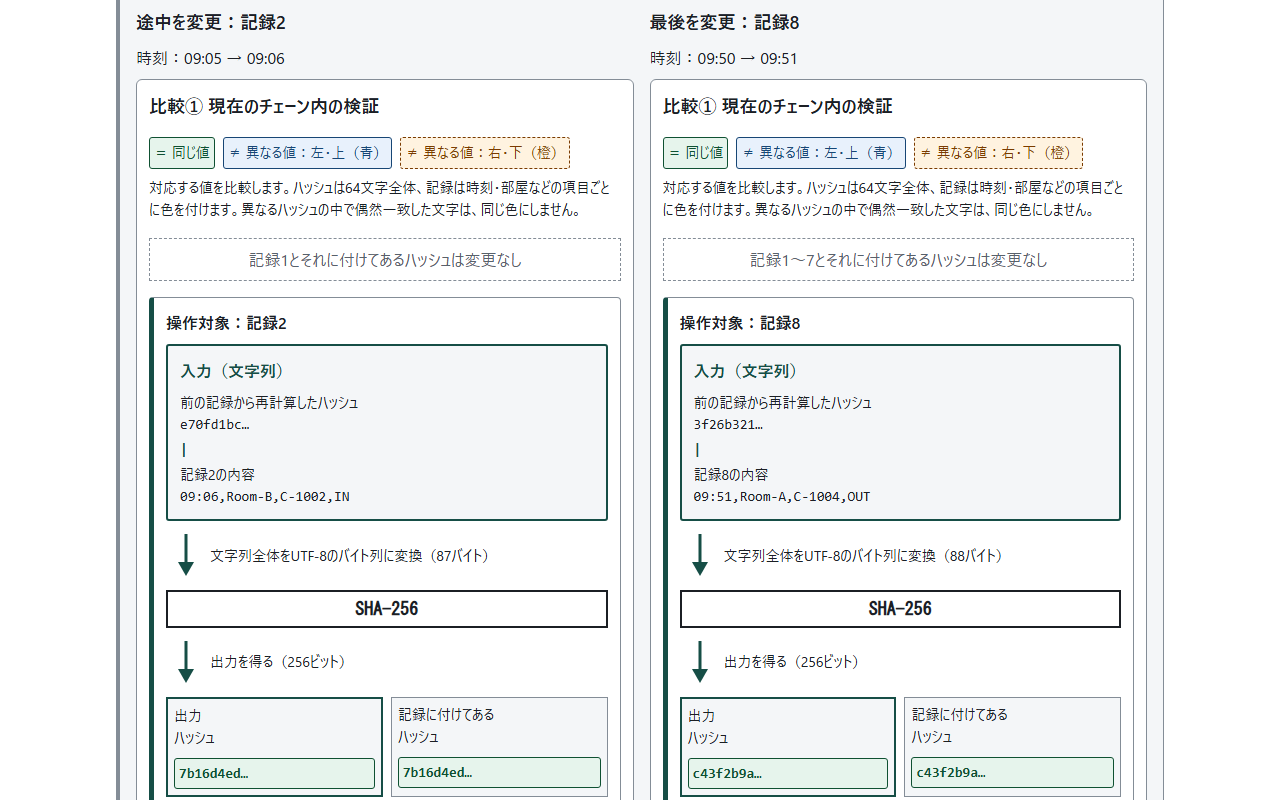
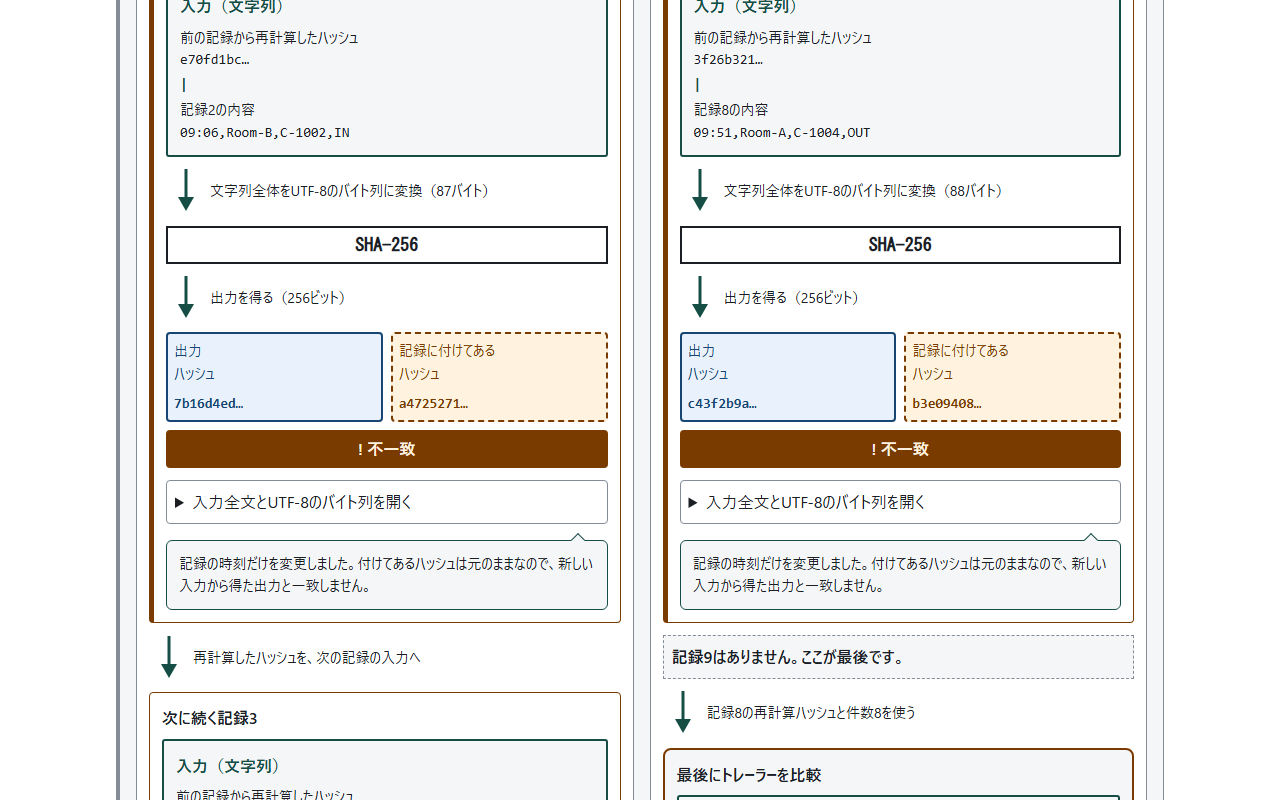
図内の不一致をハッシュ欄全体と判定帯で強調

Changed region(s): [[0.0938, 0.0, 0.875, 1.0]]

diff --git a/app.js b/app.js
@@ -602,6 +602,7 @@
 
   function positionPair(leftLabel, leftHash, rightLabel, rightHash, valid, outputFirst = false) {
     const pair = node('div', undefined, 'position-pair');
+    pair.dataset.valid = String(valid);
     const values = [['stored', leftLabel, leftHash], ['recomputed', rightLabel, rightHash]];
     if (outputFirst) values.reverse();
     for (const [key, label, hash] of values) {
@@ -610,7 +611,10 @@
       code.title = hash;
       code.dataset.hash = hash;
       cell.dataset.side = key;
-      comparisonTone(code, hash, key === 'stored' ? rightHash : leftHash, pair.childElementCount === 0 ? 'first' : 'second');
+      const peer = key === 'stored' ? rightHash : leftHash;
+      const side = pair.childElementCount === 0 ? 'first' : 'second';
+      comparisonTone(cell, hash, peer, side);
+      comparisonTone(code, hash, peer, side);
       cell.append(node('span', label), code);
       pair.append(cell);
     }
@@ -640,6 +644,7 @@
     const bytes = new TextEncoder().encode(input);
     card.dataset.input = input;
     card.dataset.bytes = String(bytes.length);
+    card.dataset.valid = String(valid);
     card.append(positionArrow(t('diagram.utf8', {n:bytes.length})),
       node('div', 'SHA-256', 'diagram-function'), positionArrow(t('diagram.outputArrow')),
       positionPair(t(trailer ? 'position.originalTrailer' : 'diagram.stored'), stored,

diff --git a/style.css b/style.css
@@ -614,3 +614,10 @@ code.compare-value, .comparison-color-keys .compare-value { padding: 0.25rem; bo
 .position-disclosure-indicator { display: inline-block; width: 1.25em; }
 .position-inline-panel { margin-block-start: 1rem; padding-block-start: 0.75rem; border-block-start: 1px solid var(--border); }
 .position-inline-panel .position-case { margin-block: 0; }
+
+/* Color each complete comparison cell and make a failed verdict unmistakable. */
+.position-pair .position-value.compare-value { padding: 0.375rem; border-width: 2px; border-radius: 4px; }
+.position-pair .position-value code.compare-value { color: inherit; background: transparent; border: 0; padding: 0; }
+.position-verdict.bad { color: var(--warn-bg); background: var(--warn-fg); border: 2px solid var(--warn-fg); font-weight: 700; }
+.position-record[data-valid="false"], .position-trailer[data-valid="false"] { border-color: var(--warn-fg); }
+.position-record[data-valid="true"], .position-trailer[data-valid="true"] { border-color: var(--ok-fg); }

diff --git a/CLAUDE.md b/CLAUDE.md
@@ -101,3 +101,5 @@ Step1の前提知識に、記録・計算用入力文字列・出力のハッシ
 比較表示は完全な値の一致から色を決めます。同じ値は緑、異なる値は左・上が青、右・下が橙です。ハッシュは64文字を1単位とし、偶然一致した文字の部分強調はしません。入力文字列では前のハッシュと記録の各項目を分け、区切り記号は色の判定から除きます。色の凡例と一致・不一致の文字を併記し、明暗・日英・狭い画面に対応します。暗号計算と固定期待値は維持します。
 
 Step2・3の仕組みの解説にある比較ボタンは、直下で比較図を開閉します。chooseGuide・focus・スクロール操作を呼び出さず、表示中の段と実験結果を保ちます。開閉・段階・トレーラーの選択は段別のメモリー状態とし、Step3の実行結果内の比較と分離します。図の描画関数と計算済みの比較データを共有し、詳細のIDは表示箇所ごとに分けます。開閉前後のスクロール位置・ボタン位置・フォーカス、言語切替、独立したリセットをHTTP/fileと公開URLで検証します。
+
+途中と最後の図の内部比較では、ハッシュの数値だけでなく、ラベルを含む2つの枠全体を一致時は緑、不一致時は青・橙にします。不一致の判定帯は警告の前景色と背景色を反転して強調し、対象記録・トレーラーの外枠にも判定色を付けます。色は各図内の出力と付けてあるハッシュを比較するもので、左右の記録2と記録8を比べるものではありません。64文字全体での判定、各図の実計算、開閉時の読書位置は維持します。

diff --git a/README.en.md b/README.en.md
@@ -83,6 +83,8 @@ Diagrams show the status of all 8 rows, tail deletion, and the people who hold k
 
 Step 3 embeds the Middle vs last input/output diagrams in What just happened. Arrows connect each input string, UTF-8 encoding, SHA-256 and output. The output and stored hash appear side by side, with callouts explaining each match or mismatch. Arrows also show the output feeding the next record or trailer input. Expand the full input and every byte in place. Two original copies let you replay 0 original, 1 change only the contents, and 2 also update that record’s stored hash. It opens at stage 2, matching the Step 3 action; stage 1 revisits Step 2.
 
+Within each diagram, the complete hash cells, including their labels, are colored. A match makes both green; a mismatch makes the output blue and the stored hash orange. A solid verdict bar and an orange record or trailer outline emphasize a mismatch. These colors compare the two hashes within each diagram, not record 2 against record 8.
+
 Toggle whether the original trailer is included. At stage 2, both target records match, but record 3 mismatches in the middle case and the original trailer mismatches in the last-record case. Excluding the trailer lets the last-record case pass without making it identical to the original. A separate comparison below each diagram shows changes from the original; expand all eight inputs and full hashes for details.
 
 Return to this step’s comparison restores stage 2 with the original trailer included. These controls do not change the record-2 experiment carried into Step 4. Continue to Step 4 to update the stored hashes for records 3–8 and the trailer as well.
